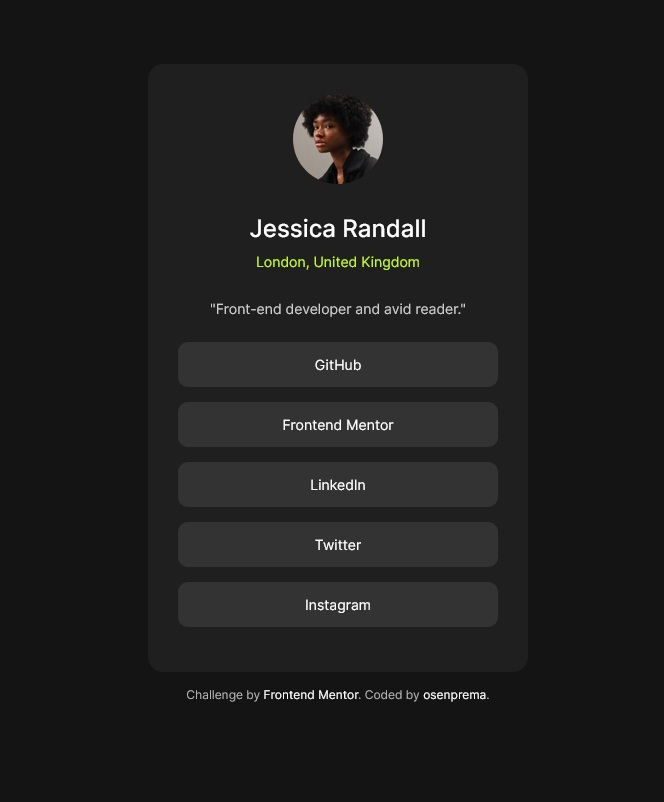
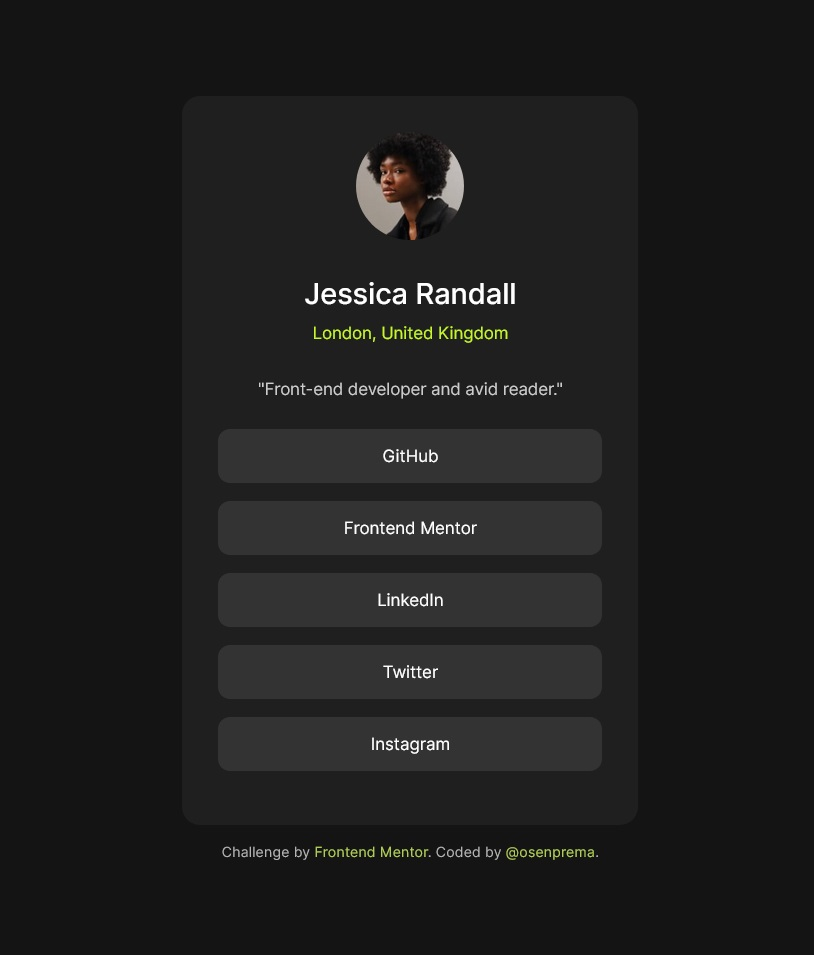
Correction of semantic errors in HTML file and improvement of CSS styles.

diff --git a/index.html b/index.html
@@ -8,20 +8,20 @@
     <title>Frontend Mentor | Social links profile</title>
   </head>
   <body>
-    <div class="principal-container">
-      <img src="./assets/images/avatar-jessica.jpeg">
+    <main class="principal-container">
+      <img src="./assets/images/avatar-jessica.jpeg" alt="Picture of User">
       <h1>Jessica Randall</h1>
-      <h4>London, United Kingdom</h4>
-      <h4>"Front-end developer and avid reader."</h4>
+      <h2>London, United Kingdom</h2>
+      <h2>"Front-end developer and avid reader."</h2>
       <a href="https://www.github.com" class="social" target="_blank">GitHub</a>
       <a href="https://www.frontendmentor.io" class="social" target="_blank">Frontend Mentor</a>
       <a href="https://www.linkedin.com" class="social" target="_blank">LinkedIn</a>
       <a href="https://www.twitter.com" class="social" target="_blank">Twitter</a>
       <a href="https://www.instagram.com" class="social" target="_blank">Instagram</a>
-    </div>
-    <div class="attribution">
+    </main>
+    <footer class="attribution">
       Challenge by <a href="https://www.frontendmentor.io?ref=challenge" target="_blank">Frontend Mentor</a>. 
-      Coded by <a href="#">osenprema</a>.
-    </div>
+      Coded by <a href="#">@osenprema</a>.
+    </footer>
   </body>
 </html>

diff --git a/styles.css b/styles.css
@@ -32,18 +32,20 @@ h1 {
   color: hsl(0, 0%, 100%);
 }
 
-h4 {
+h2 {
   font-weight: 400;
   color: hsl(0, 0%, 80%);
 }
 
-h4:first-of-type {
+h2:first-of-type {
+  font-size: 0.87rem;
   margin: 10px 0;
   color: hsl(75, 94%, 57%);
 }
 
-h4:last-of-type {
+h2:last-of-type {
   margin: 20px 0 25px;
+  font-size: 0.87rem;
 }
 
 .principal-container {
@@ -83,6 +85,6 @@ h4:last-of-type {
 }
 
 .attribution a {
-  color: hsl(0, 0%, 100%);
+  color: hsl(75, 54%, 57%);
   text-decoration: none;
 }
